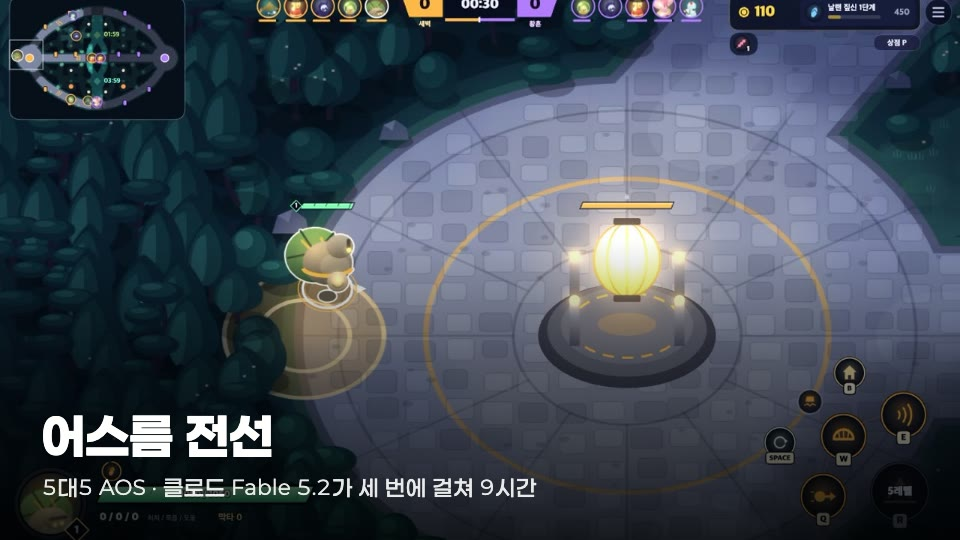
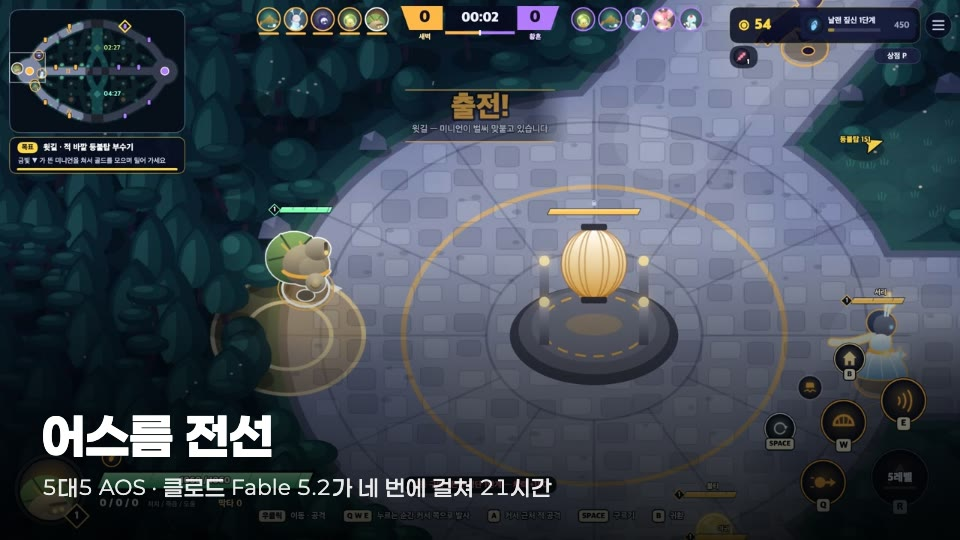
docs(profile): 어스름 전선 타일을 4차(v4)로 교체, 현황판 갱신 (2026-11-22)

diff --git a/README.en.md b/README.en.md
@@ -40,7 +40,7 @@ I ask an AI for a game in a few lines, play what it builds, and post the result 
   <a href="https://wonjangcloud9.github.io/ai-game-battle/ep02/"><img src="./assets/games/tile-aurora-fall-2.en.jpg" width="49%" alt="Aurora Fall 2, a 3D battle royale"></a>
   <a href="https://wonjangcloud9.github.io/ai-game-battle/ep03/claude/"><img src="./assets/games/tile-sundrift-gp.en.jpg" width="49%" alt="Sundrift GP, 3D kart racing"></a>
   <a href="https://wonjangcloud9.github.io/ai-game-battle/ep04/"><img src="./assets/games/tile-lens-answer.en.jpg" width="49%" alt="The Answer in the Lens, an exam with AI glasses"></a>
-  <a href="https://wonjangcloud9.github.io/ai-game-battle/ep05/v3/"><img src="./assets/games/tile-twilight-front.en.jpg" width="49%" alt="Twilight Front, a 5v5 MOBA"></a>
+  <a href="https://wonjangcloud9.github.io/ai-game-battle/ep05/v4/"><img src="./assets/games/tile-twilight-front.en.jpg" width="49%" alt="Twilight Front, a 5v5 MOBA"></a>
   <a href="https://wonjangcloud9.github.io/ai-game-battle/ep06/v1/"><img src="./assets/games/tile-lantern-keeper.en.jpg" width="49%" alt="The Lantern Keeper, a 2D side-scrolling RPG"></a>
   <a href="https://wonjangcloud9.github.io/ai-game-battle/seoul/"><img src="./assets/games/tile-seoul-632.en.jpg" width="49%" alt="Seoul, 632 years: the city growing in 3D since 1394"></a>
 </p>
@@ -108,8 +108,8 @@ The one I spent longest on is #006, the museum. I built a three-story hall and t
 
 <div align="center">
 <picture>
-  <source media="(prefers-color-scheme: dark)" srcset="./assets/dashboard-dark-2213eb1829.svg">
-  <img src="./assets/dashboard-light-2213eb1829.svg" alt="Wonjang Lab dashboard — repos, commits, languages, subjects, open-source contributions" width="100%">
+  <source media="(prefers-color-scheme: dark)" srcset="./assets/dashboard-dark-3a09d4dedd.svg">
+  <img src="./assets/dashboard-light-3a09d4dedd.svg" alt="Wonjang Lab dashboard — repos, commits, languages, subjects, open-source contributions" width="100%">
 </picture>
 </div>
 
@@ -300,7 +300,7 @@ LangChain and RAG put an LLM in a product for the first time.
 <tr><td align="center"><b>2025</b><br><sub>45 repos</sub><br><sub>852 commits</sub></td><td>
 Five health apps. Late in the year I stopped using other people's agents and <b>started writing my own</b>.
 </td></tr>
-<tr><td align="center"><b>2026</b><br><sub>48 repos</sub><br><sub>4,899 commits</sub></td><td>
+<tr><td align="center"><b>2026</b><br><sub>48 repos</sub><br><sub>4,901 commits</sub></td><td>
 Shipped agent tools to npm and PyPI. In September I opened eight web services in four days with nanika; in October vibing went out on the App Store. In November I had AI build games and opened ten of them, and rebuilt Custo as a CUTIE STREET fan site. <b>My highest-commit year, and it's only November.</b>
 </td></tr>
 </table>
